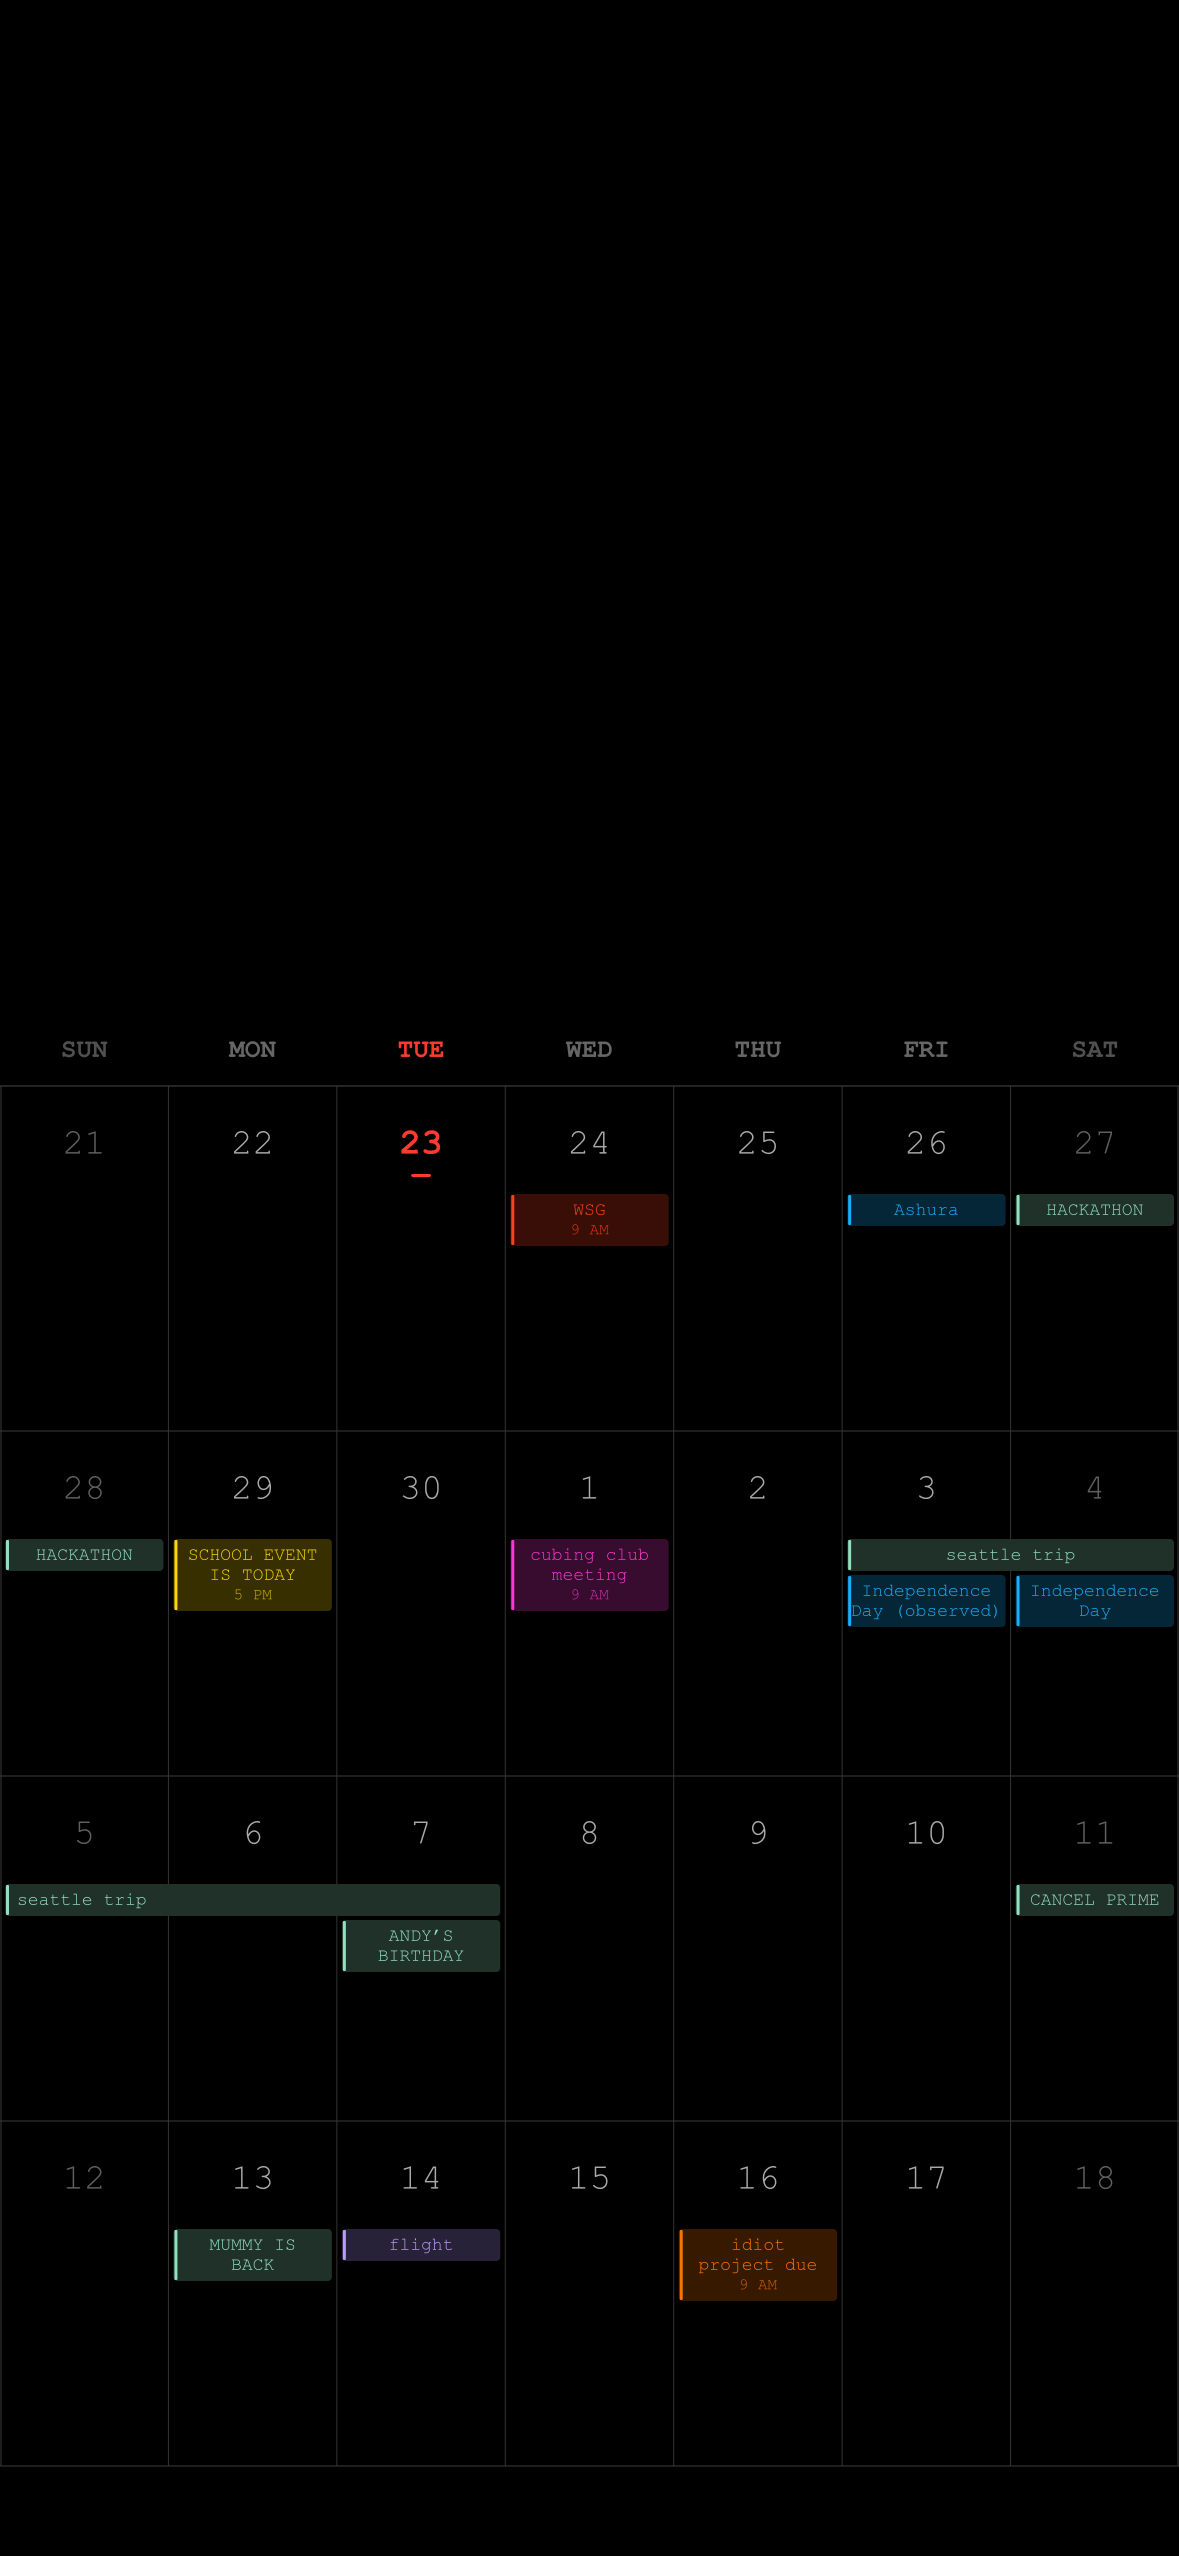
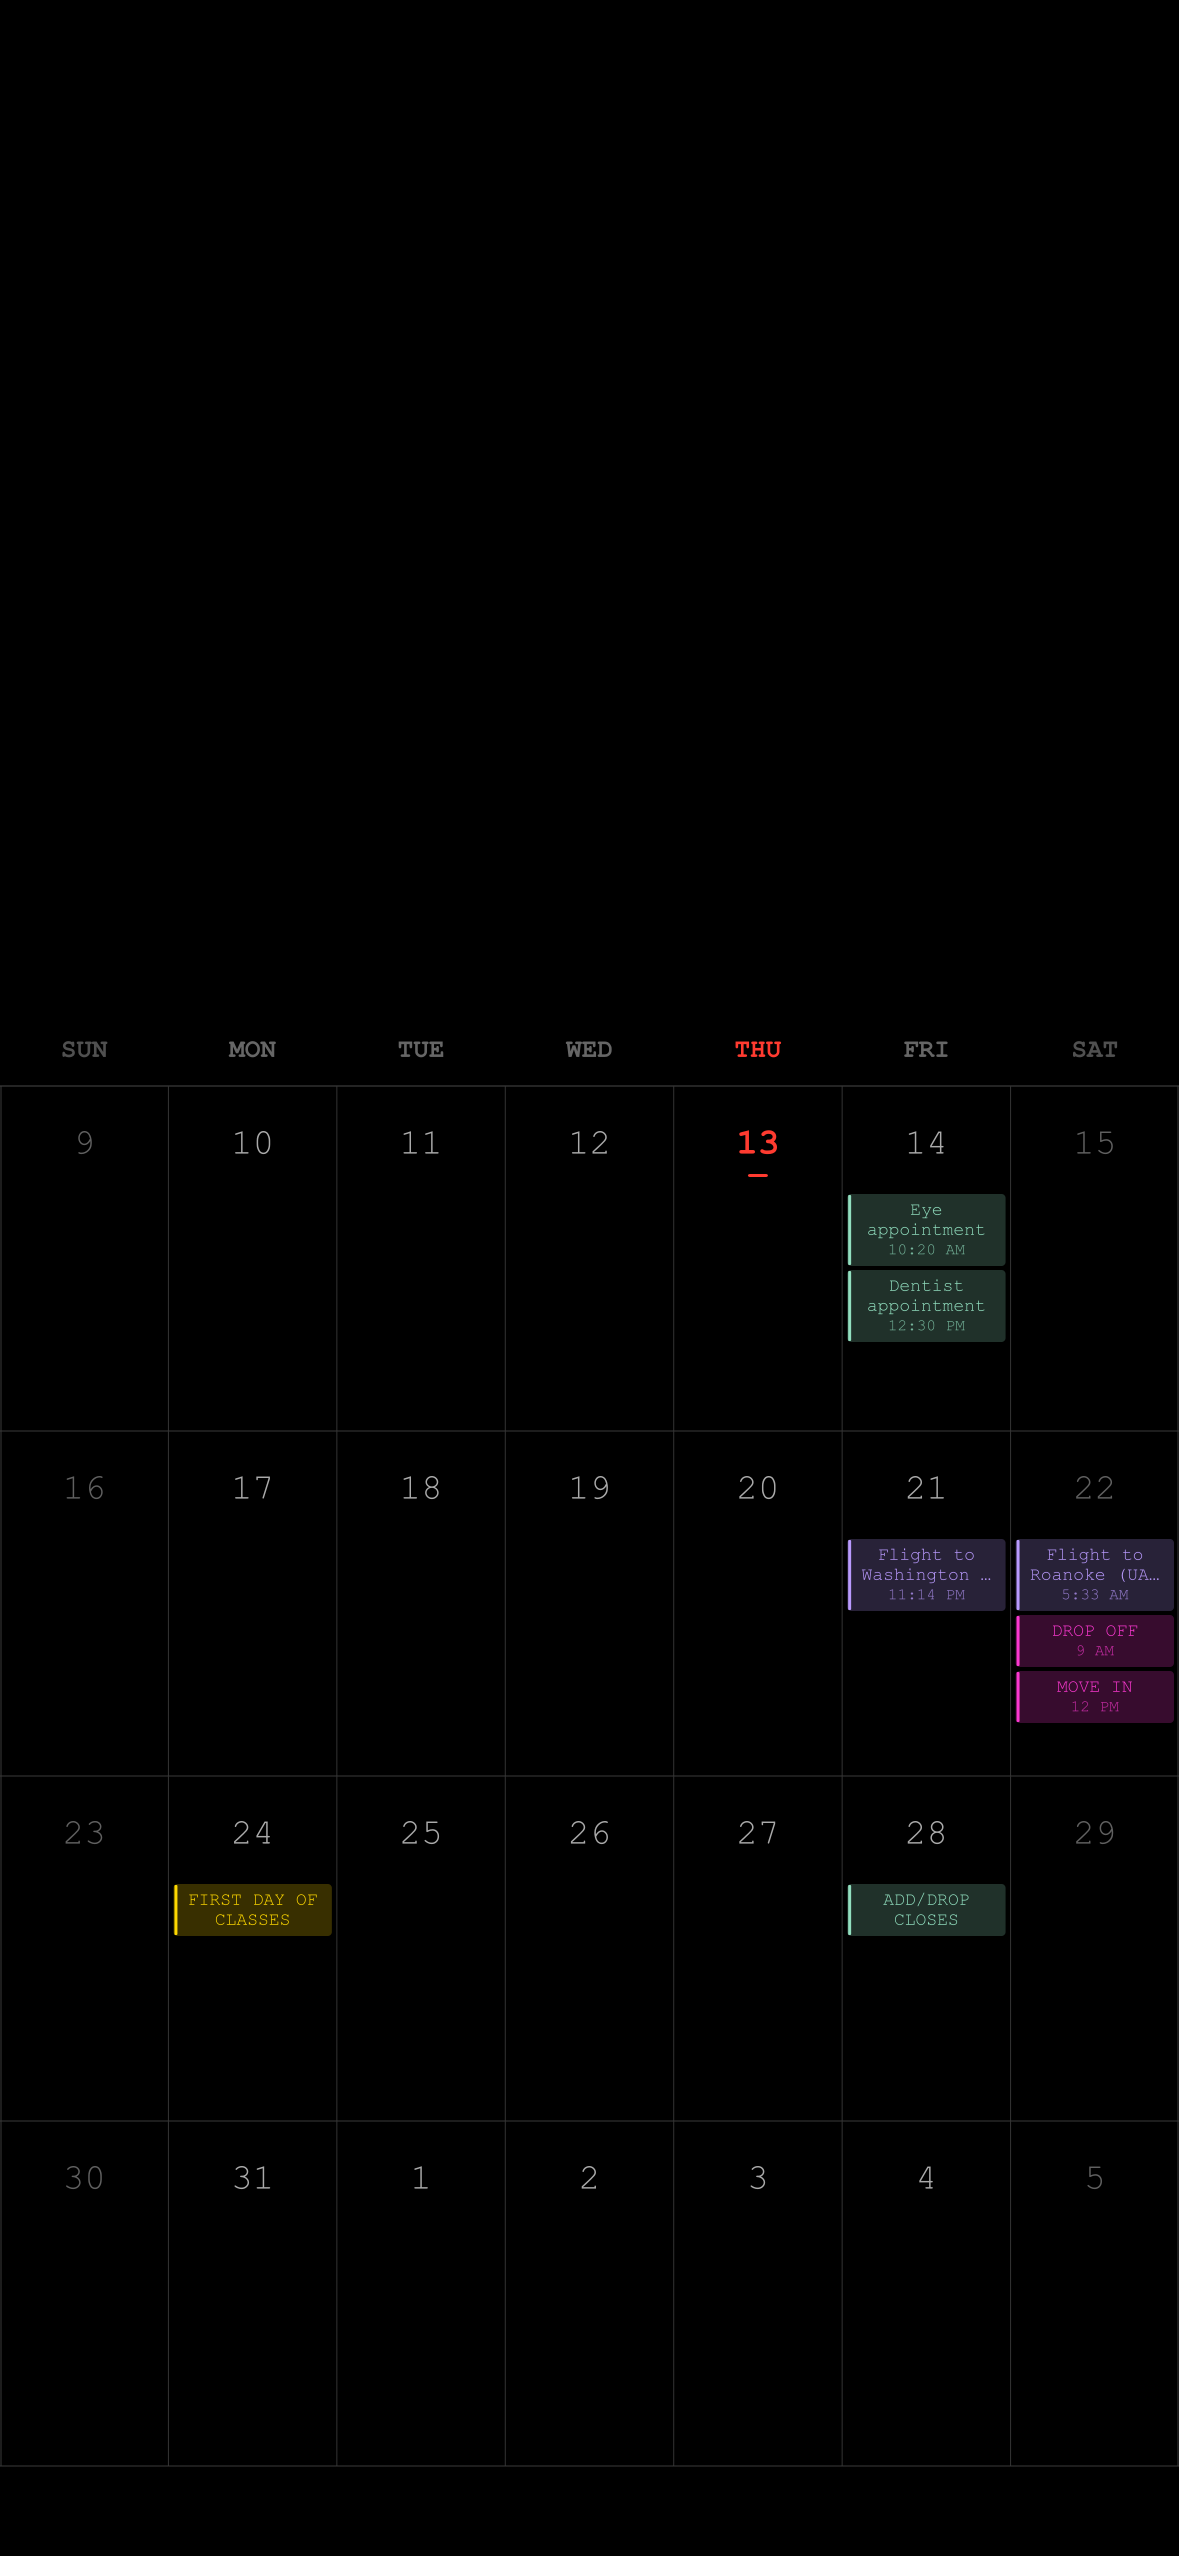
max line limit

diff --git a/test_calendar_render.js b/test_calendar_render.js
@@ -1,0 +1,40 @@
+/**
+ * Quick test script: generates calendar_test_output.png with mock events.
+ * Run with: node test_calendar_render.js
+ */
+
+const { calendar_render_2 } = require('./modules/calendar/calendar_render_2');
+const fs = require('fs');
+
+// Mock events — format mirrors what getCalendarEvents() returns.
+// daysFromToday: 0 = today (Sunday of the current week grid)
+const mockEvents = [
+    // Single-day timed events
+    { title: 'Standup', daysFromToday: 1, start: '9:00 AM', allDay: false, color: { titleText: '#5AC8FA', timeText: '#4AABB8' } },
+    { title: 'Lunch with Alex', daysFromToday: 2, start: '12:30 PM', allDay: false, color: { titleText: '#FF9500', timeText: '#CC7700' } },
+    { title: 'Design Review', daysFromToday: 3, start: '2:00 PM', allDay: false, color: { titleText: '#FF2D55', timeText: '#CC0044' } },
+    { title: 'Weekly Sync', daysFromToday: 4, start: '4:00 PM', allDay: false, color: { titleText: '#34C759', timeText: '#28A046' } },
+    { title: 'Doctor Appointment', daysFromToday: 8, start: '10:00 AM', allDay: false, color: { titleText: '#FF9500', timeText: '#CC7700' } },
+    { title: 'Team Offsite', daysFromToday: 10, start: '9:00 AM', allDay: false, color: { titleText: '#5856D6', timeText: '#4644AA' } },
+    { title: 'Coffee Chat', daysFromToday: 15, start: '3:00 PM', allDay: false, color: { titleText: '#FF3B30', timeText: '#CC2200' } },
+
+    // All-day single events
+    { title: 'Holiday', daysFromToday: 5, allDay: true, color: { titleText: '#FFD60A', timeText: '#B89800' } },
+
+    // Multi-day span (spanStart/spanEnd are day indices)
+    { title: 'Vacation', spanStart: 9, spanEnd: 13, allDay: true, color: { titleText: '#64D2FF', timeText: '#3AAACC' }, daysFromToday: 9 },
+    { title: 'Vacation', spanStart: 9, spanEnd: 13, allDay: true, color: { titleText: '#64D2FF', timeText: '#3AAACC' }, daysFromToday: 10 },
+    { title: 'Vacation', spanStart: 9, spanEnd: 13, allDay: true, color: { titleText: '#64D2FF', timeText: '#3AAACC' }, daysFromToday: 11 },
+    { title: 'Vacation', spanStart: 9, spanEnd: 13, allDay: true, color: { titleText: '#64D2FF', timeText: '#3AAACC' }, daysFromToday: 12 },
+
+    // Another multi-day span overlapping vacation
+    { title: 'Conf', spanStart: 11, spanEnd: 14, allDay: true, color: { titleText: '#FF9F0A', timeText: '#CC7700' }, daysFromToday: 11 },
+    { title: 'Conf', spanStart: 11, spanEnd: 14, allDay: true, color: { titleText: '#FF9F0A', timeText: '#CC7700' }, daysFromToday: 12 },
+    { title: 'Conf', spanStart: 11, spanEnd: 14, allDay: true, color: { titleText: '#FF9F0A', timeText: '#CC7700' }, daysFromToday: 13 },
+];
+
+(async () => {
+    const buf = await calendar_render_2(mockEvents, new Date());
+    fs.writeFileSync('calendar_test_output.png', buf);
+    console.log('Done → calendar_test_output.png');
+})();

diff --git a/modules/calendar/calendar_render_2.js b/modules/calendar/calendar_render_2.js
@@ -49,10 +49,15 @@ function wrapTitle(title, pillWidthPx) {
         i++;
     }
     if (!line1) {
-        return [title.substring(0, maxChars - 1) + '-', title.substring(maxChars - 1)];
+        // single word longer than maxChars — hard truncate line1, put rest on line2
+        line1 = title.substring(0, maxChars - 1) + '-';
+        i = 0; // remaining handled below as line2
     }
-    const line2 = words.slice(i).join(' ');
-    return line2 ? [line1, line2] : [line1];
+    if (i >= words.length) return [line1];
+    // Build line2, truncate with ellipsis if it doesn't fit
+    let line2 = words.slice(i).join(' ');
+    if (line2.length > maxChars) line2 = line2.substring(0, maxChars - 1) + '…';
+    return [line1, line2];
 }
 
 // Greedy lane assignment: pack non-overlapping spans into the same lane.
@@ -257,7 +262,7 @@ async function calendar_render_2(events, startDate = new Date()) {
 
 // (async () => {
 //     const events = await getCalendarEvents();
-//     const buf = await calendar_render(events);
+//     const buf = await calendar_render_2(events);
 //     require('fs').writeFileSync('calendar_2_output.png', buf);
 //     console.log('Done → calendar_2_output.png');
 // })();
